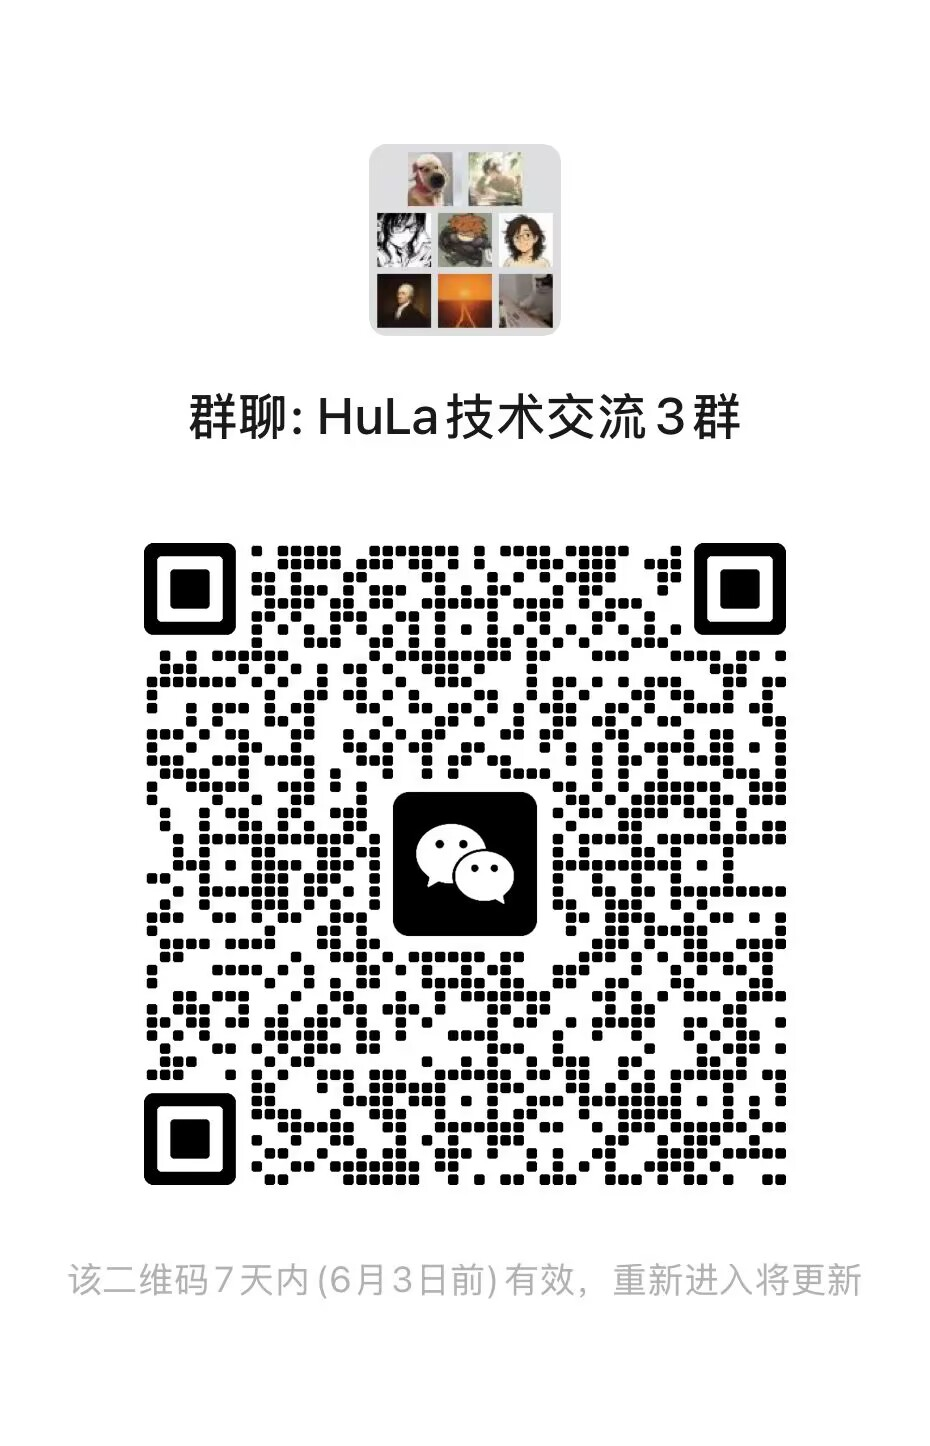
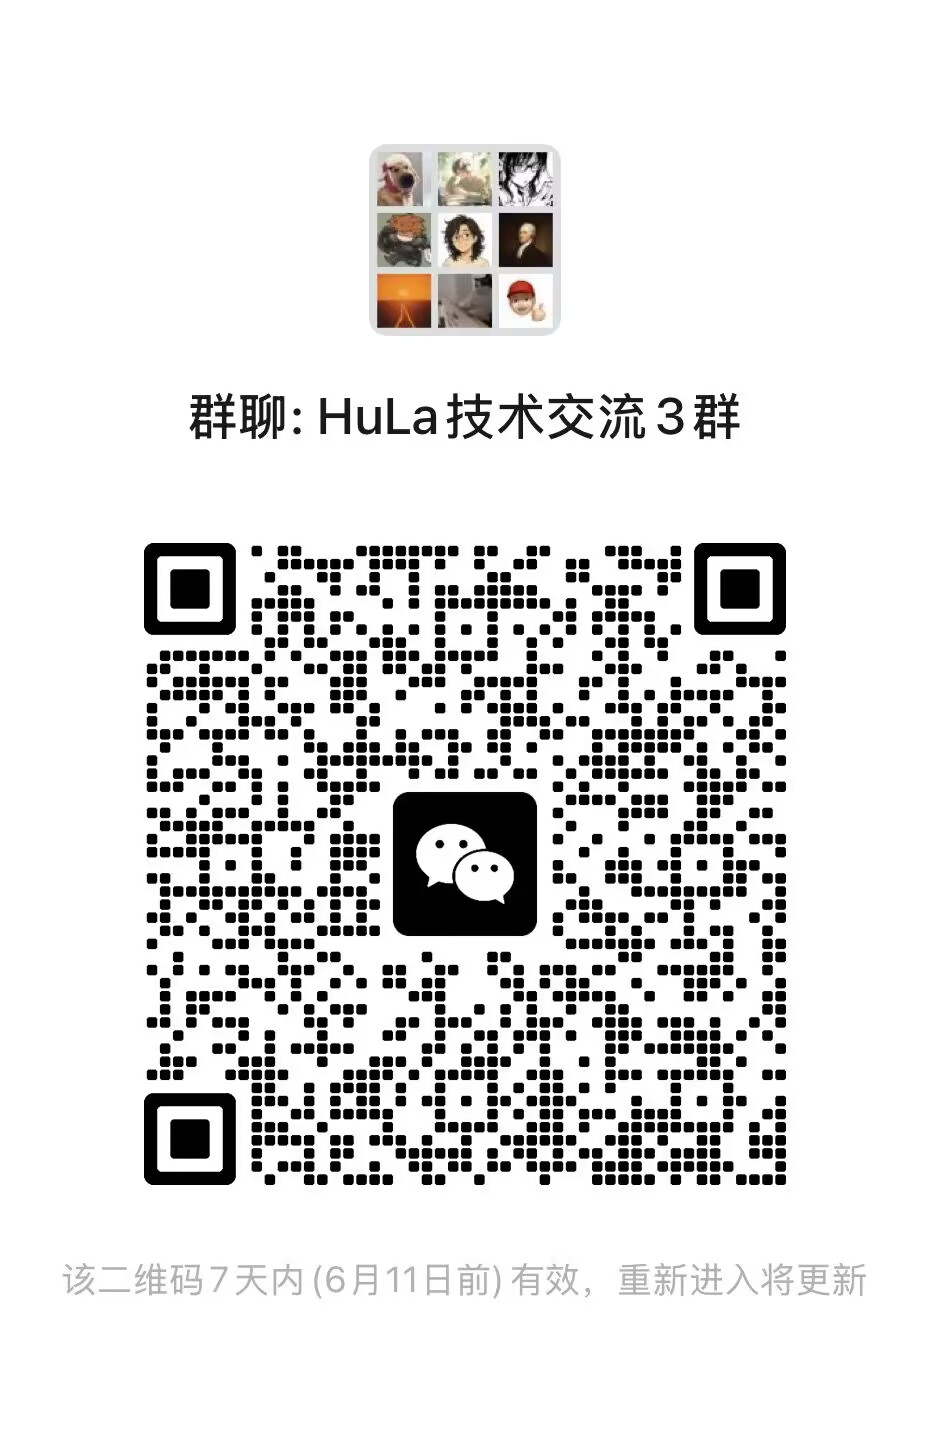
perf(store): :zap: 优化刷新会话列表后，时间和最新消息简介没有更新的问题
更新微信群二维码和赞助榜

diff --git a/src/stores/chat.ts b/src/stores/chat.ts
@@ -294,9 +294,26 @@ export const useChatStore = defineStore(
       // 保存当前选中的会话ID
       const currentSelectedRoomId = globalStore.currentSession.roomId
 
-      isFresh
-        ? sessionList.value.splice(0, sessionList.value.length, ...data.list)
-        : sessionList.value.push(...data.list)
+      if (isFresh) {
+        const localSessionMap = new Map(sessionList.value.map((s) => [s.roomId, s]))
+        const newSessionList = data.list.map((serverSession) => {
+          const localSession = localSessionMap.get(serverSession.roomId)
+          if (localSession && localSession.activeTime > serverSession.activeTime) {
+            return {
+              ...serverSession,
+              text: localSession.text,
+              activeTime: localSession.activeTime,
+              unreadCount: localSession.unreadCount
+            }
+          } else {
+            return serverSession
+          }
+        })
+        sessionList.value.splice(0, sessionList.value.length, ...newSessionList)
+      } else {
+        sessionList.value.push(...data.list)
+      }
+
       sessionOptions.cursor = data.cursor
       sessionOptions.isLast = data.isLast
       sessionOptions.isLoading = false

diff --git a/src/components/windows/ActionBar.vue b/src/components/windows/ActionBar.vue
@@ -162,9 +162,6 @@ watchEffect(() => {
         }
         // 阻止默认关闭行为
         event.preventDefault()
-
-        // 显示关闭确认对话框或执行自定义逻辑
-        console.log('主窗口关闭拦截，显示确认对话框或执行设置的操作')
         if (!tips.value.notTips) {
           tipsRef.show = true
         } else {

diff --git a/README.md b/README.md
@@ -226,6 +226,7 @@ sudo xattr -r -d com.apple.quarantine /Applications/应用名称.app
 | 2025-02-7 | dennis | ￥80 | gitee码云赞赏 |
 | 2025-05-15 | 孤鸿影 | ￥56 | 微信红包 |
 | 2025-02-6 | 小二 | ￥62 | 微信转账 |
+| 2025-06-03 | 洪流 | ￥20 | 微信赞赏码 |
 | 2025-05-27 | 刘启成 | ￥20 | 微信赞赏码 |
 | 2025-05-20 | 没有留名的赞助者 | ￥20 | 微信赞赏码 |
 

diff --git a/README.en.md b/README.en.md
@@ -226,6 +226,7 @@ Thanks to the following sponsors for their support!
 | 2025-02-7 | dennis | ￥80 | gitee码云赞赏 |
 | 2025-05-15 | 孤鸿影 | ￥56 | 微信红包 |
 | 2025-02-6 | 小二 | ￥62 | 微信转账 |
+| 2025-06-03 | 洪流 | ￥20 | 微信赞赏码 |
 | 2025-05-27 | 刘启成 | ￥20 | 微信赞赏码 |
 | 2025-05-20 | 没有留名的赞助者 | ￥20 | 微信赞赏码 |
 
